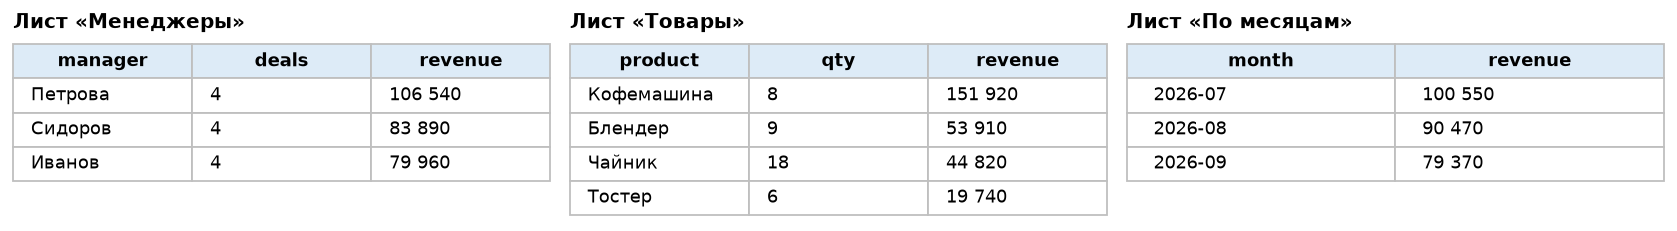
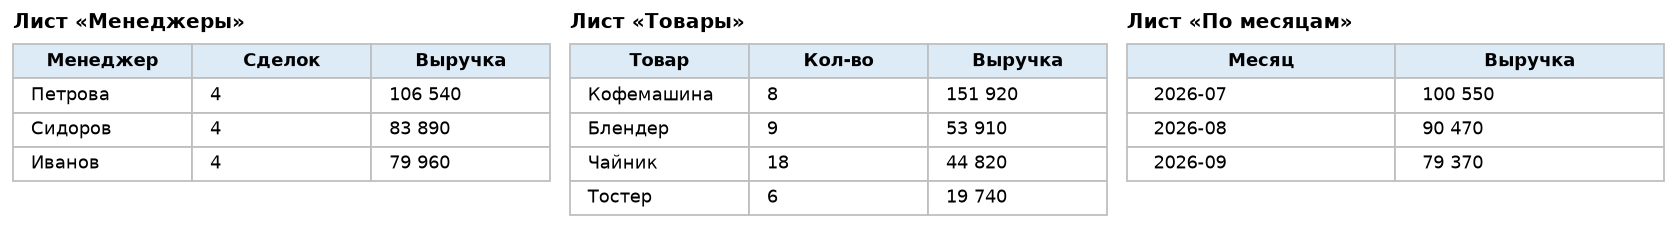
Report: Russian headers, number and date formats

diff --git a/excel_report/report.py b/excel_report/report.py
@@ -15,6 +15,8 @@ import pandas as pd
 from openpyxl.styles import Font, PatternFill
 
 REQUIRED = ["date", "manager", "product", "qty", "price"]
+HEADERS = {"date": "Дата", "manager": "Менеджер", "product": "Товар", "qty": "Кол-во",
+           "price": "Цена", "revenue": "Выручка", "deals": "Сделок", "month": "Месяц"}
 
 
 def load(path):
@@ -53,11 +55,17 @@ def save(sheets, out):
     header_fill = PatternFill("solid", fgColor="DDEBF7")
     with pd.ExcelWriter(out, engine="openpyxl") as writer:
         for name, table in sheets.items():
-            table.to_excel(writer, sheet_name=name, index=False)
+            table.rename(columns=HEADERS).to_excel(writer, sheet_name=name, index=False)
             ws = writer.sheets[name]
             for cell in ws[1]:
                 cell.font = Font(bold=True)
                 cell.fill = header_fill
+            for row in ws.iter_rows(min_row=2):
+                for cell in row:
+                    if hasattr(cell.value, "year"):
+                        cell.number_format = "DD.MM.YYYY"
+                    elif isinstance(cell.value, (int, float)):
+                        cell.number_format = "#,##0"
             for column in ws.columns:
                 width = max(len(str(c.value or "")) for c in column) + 2
                 ws.column_dimensions[column[0].column_letter].width = min(width, 50)
